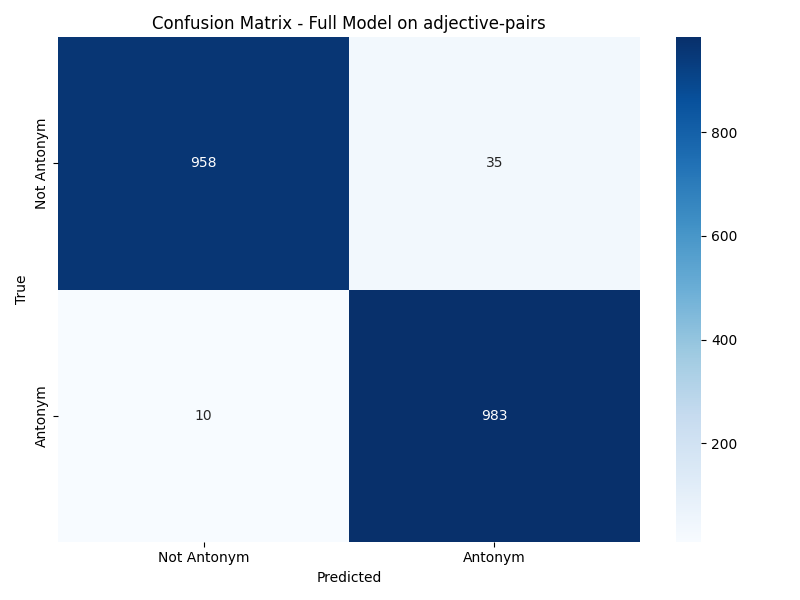
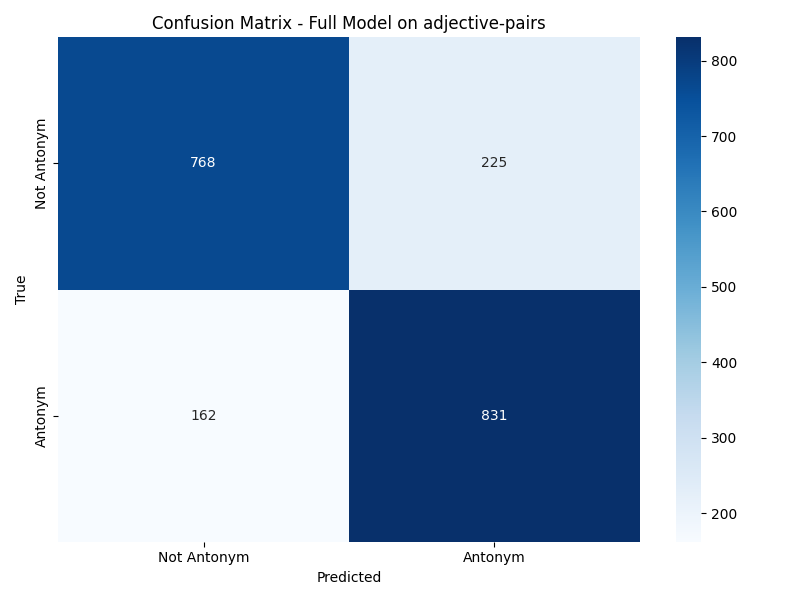
over fit error removed

diff --git a/svm.py b/svm.py
@@ -146,7 +146,7 @@ def main():
     all_word1, all_word2, all_labels = [], [], []
     
     for word_type in word_types:
-        for split in ["train", "val", "test"]:
+        for split in ["train", "val"]:
             file_path = os.path.join(dataset_dir, f"{word_type}.{split}")
             w1, w2, labels = load_data(file_path)
             all_word1.extend(w1)
